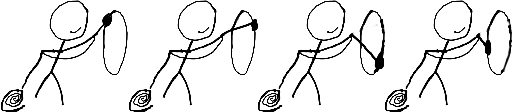
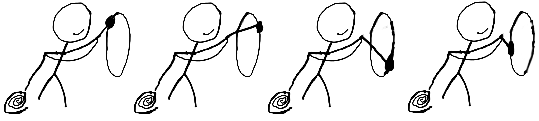
fix(player) change player prepare throw animation

diff --git a/player.go b/player.go
@@ -19,8 +19,8 @@ const (
 	playerStandAssetWidth      = 448
 	playerStandAssetHeight     = 118
 	playerStandFrameWidth      = (playerStandAssetWidth / playerFrameNum)
-	playerPreparingAssetWidth  = 517
-	playerPreparingAssetHeight = 112
+	playerPreparingAssetWidth  = 539
+	playerPreparingAssetHeight = 121
 	playerPreparingFrameWidth  = playerPreparingAssetWidth / playerFrameNum
 	playerThrownAssetWidth     = 700
 	playerThrownAssetHeight    = 144
